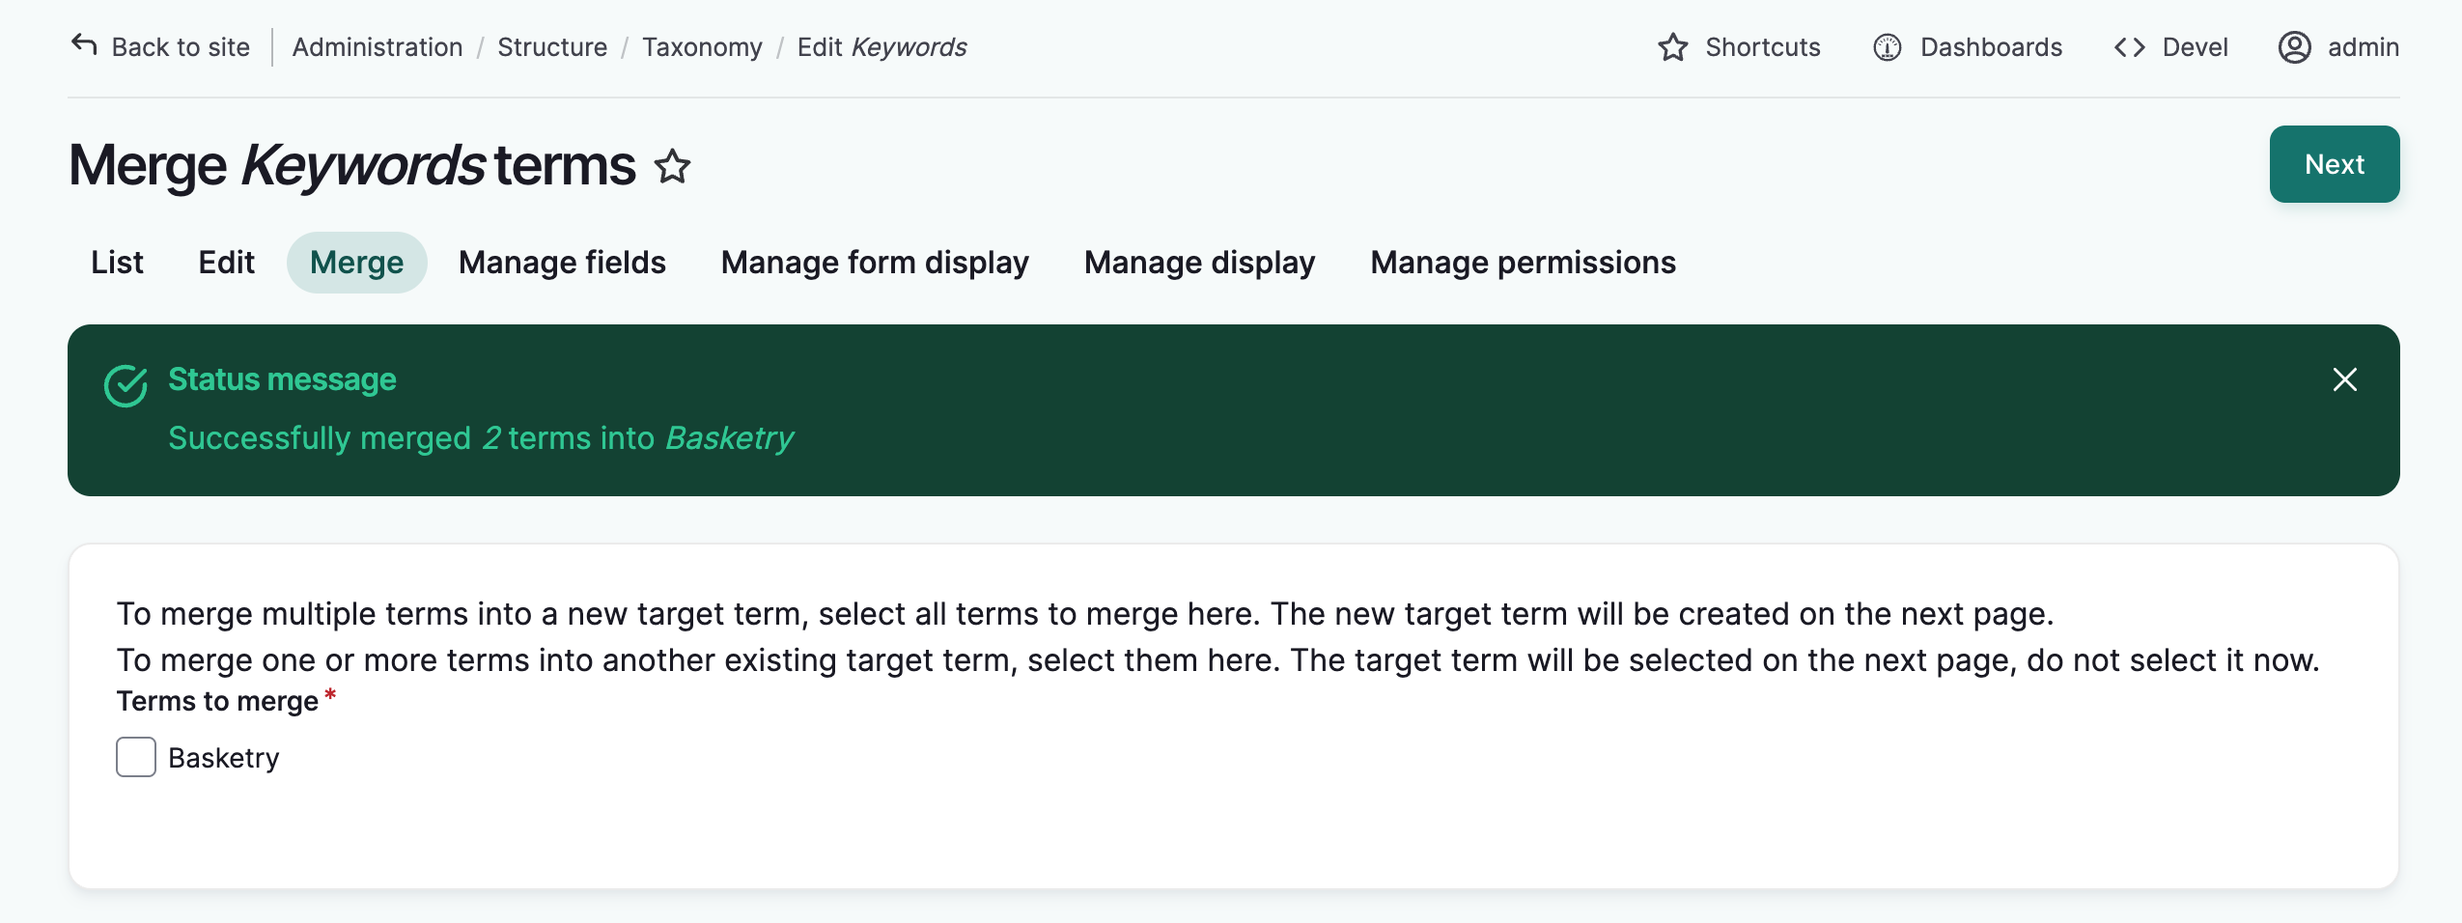
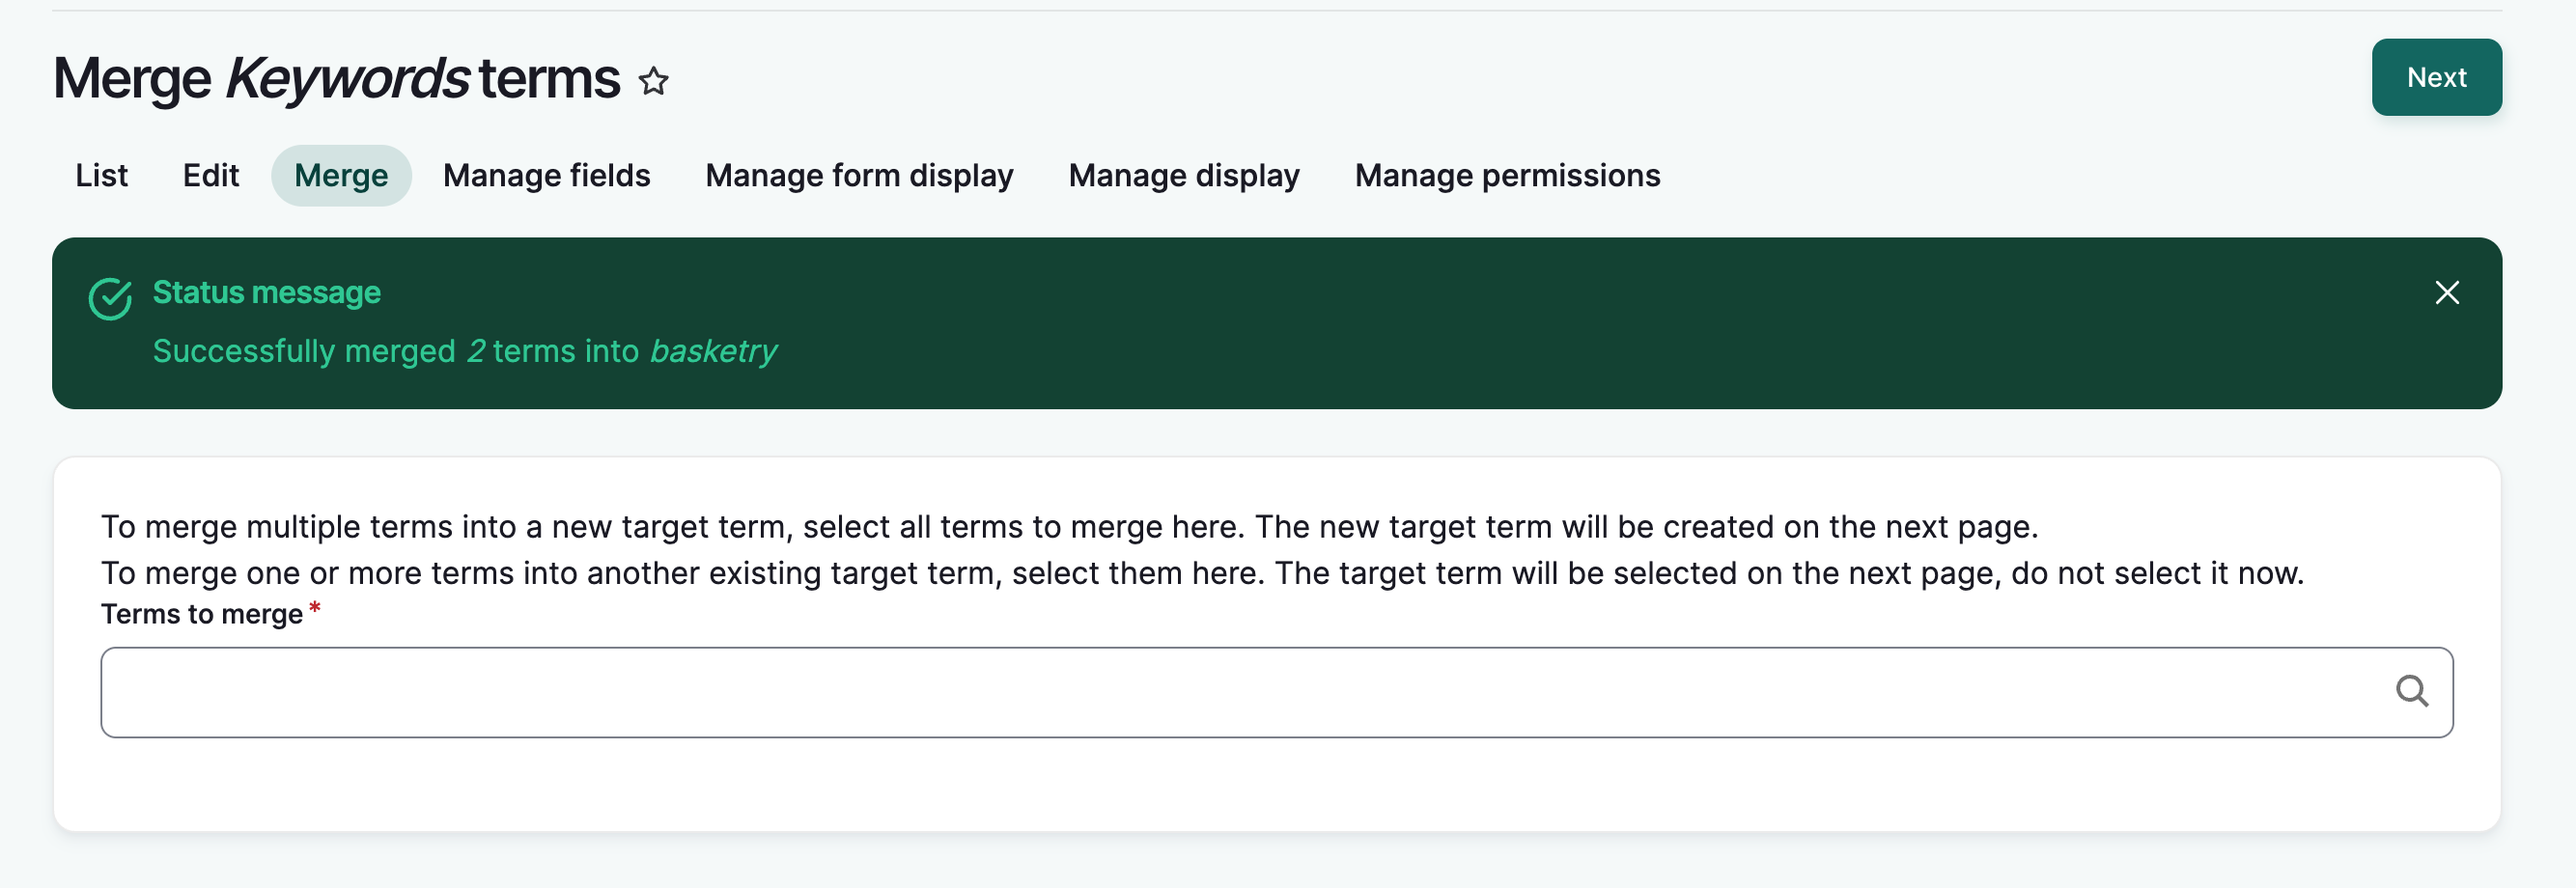
Taxonomy merge cleanup

diff --git a/docs/taxonomies/ManagingTaxonomies.md b/docs/taxonomies/ManagingTaxonomies.md
@@ -98,8 +98,8 @@ You may want to merge multiple taxonomy terms together. For example, different u
 
 2. To choose the terms you want to merge together, select the field to view existing terms. 
 
-     - To merge multiple terms into a new or existing target term, select the items you wish to merge.The target term will be selected/created on the next page, do not select it now.
-
+     - Select the terms you wish to merge.The target term will be selected/created on the next page, do not select it now. Select "Next."
+     
     ![The keyword taxonomy merge page listing all terms. Some terms are selected for merging.](../_embeds/manage-tax-11.png)
 
 3. Either enter a new target term or select an existing target term. Select "Merge terms" at the bottom of the page.
